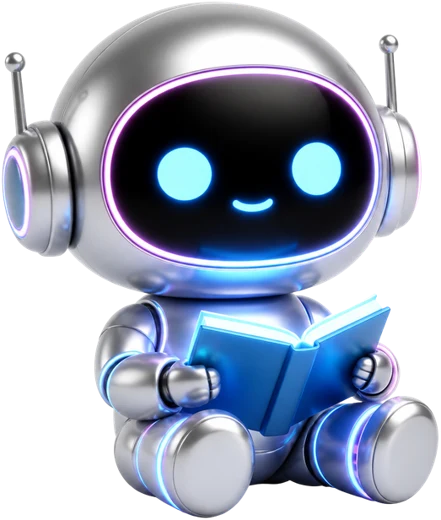
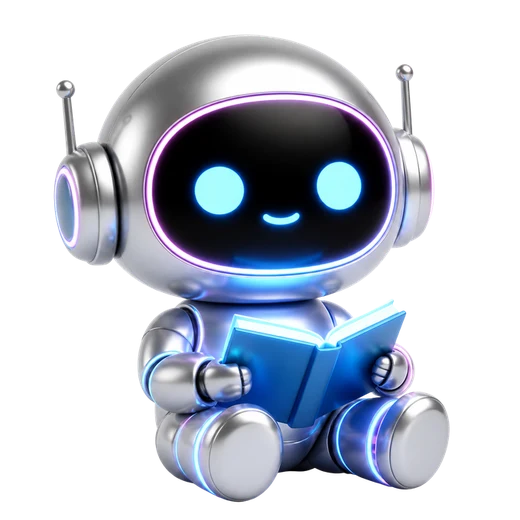
としょかんのショコに「よろこぶ」「かんがえる」の絵（Canva）を入れる
- ふつうの絵も同じわくで切りそろえ、表情がかわっても大きさがそろうようにする
- わくが広がった分、ショコの表示の大きさを合わせる

Claude-Session: https://claude.ai/code/session_01Dk1yiL1AV6fuceKqmY7KFc

diff --git a/toshokan/index.html b/toshokan/index.html
@@ -51,10 +51,10 @@
       border-bottom: 5px solid var(--c); box-shadow: 0 6px 10px -6px var(--c); }
     .spine { width: 14px; border-radius: 3px 3px 1px 1px; background: var(--sc); box-shadow: inset -3px 0 0 rgba(0,0,0,.25), inset 2px 0 0 rgba(255,255,255,.25); }
     .shoko { position: fixed; right: 14px; bottom: 6px; z-index: 6; display: flex; align-items: flex-end; gap: 6px; pointer-events: none; }
-    .shoko img { width: calc(170px * var(--fs)); max-width: 26vw; filter: drop-shadow(0 0 18px rgba(62,230,255,.55)); pointer-events: auto; cursor: pointer; }
+    .shoko img { width: calc(220px * var(--fs)); max-width: 32vw; filter: drop-shadow(0 0 18px rgba(62,230,255,.55)); pointer-events: auto; cursor: pointer; }
     .bubble { position: relative; pointer-events: auto; max-width: 340px; margin-bottom: 70px; padding: 12px 16px; border-radius: 18px;
       background: rgba(235,252,255,.96); color: #08263d; font-weight: 700; line-height: 1.55; box-shadow: 0 0 18px rgba(62,230,255,.6); }
-    .shoko.mini img { width: calc(84px * var(--fs)); }
+    .shoko.mini img { width: calc(110px * var(--fs)); }
     .shoko.mini .bubble { margin-bottom: 30px; max-width: 280px; font-size: .9em; }
     .bubble:after { content: ''; position: absolute; right: -14px; bottom: 22px; border: 8px solid transparent; border-left: 8px solid rgba(235,252,255,.96); }
     .floaty { animation: floaty 3.2s ease-in-out infinite; }
@@ -107,7 +107,7 @@
     table.list { width: 100%; border-collapse: collapse; }
     table.list td, table.list th { padding: 6px; border-bottom: 1px solid rgba(127,233,255,.2); text-align: left; vertical-align: middle; }
     .check { margin: 0; padding-left: 1.2em; line-height: 1.9; }
-    @media (max-width: 720px) { .files { grid-template-columns: 1fr; } .shoko img { width: 110px; } .bubble { max-width: 60vw; margin-bottom: 40px; } }
+    @media (max-width: 720px) { .files { grid-template-columns: 1fr; } .shoko img { width: 140px; } .bubble { max-width: 60vw; margin-bottom: 40px; } }
   </style>
 </head>
 <body>
